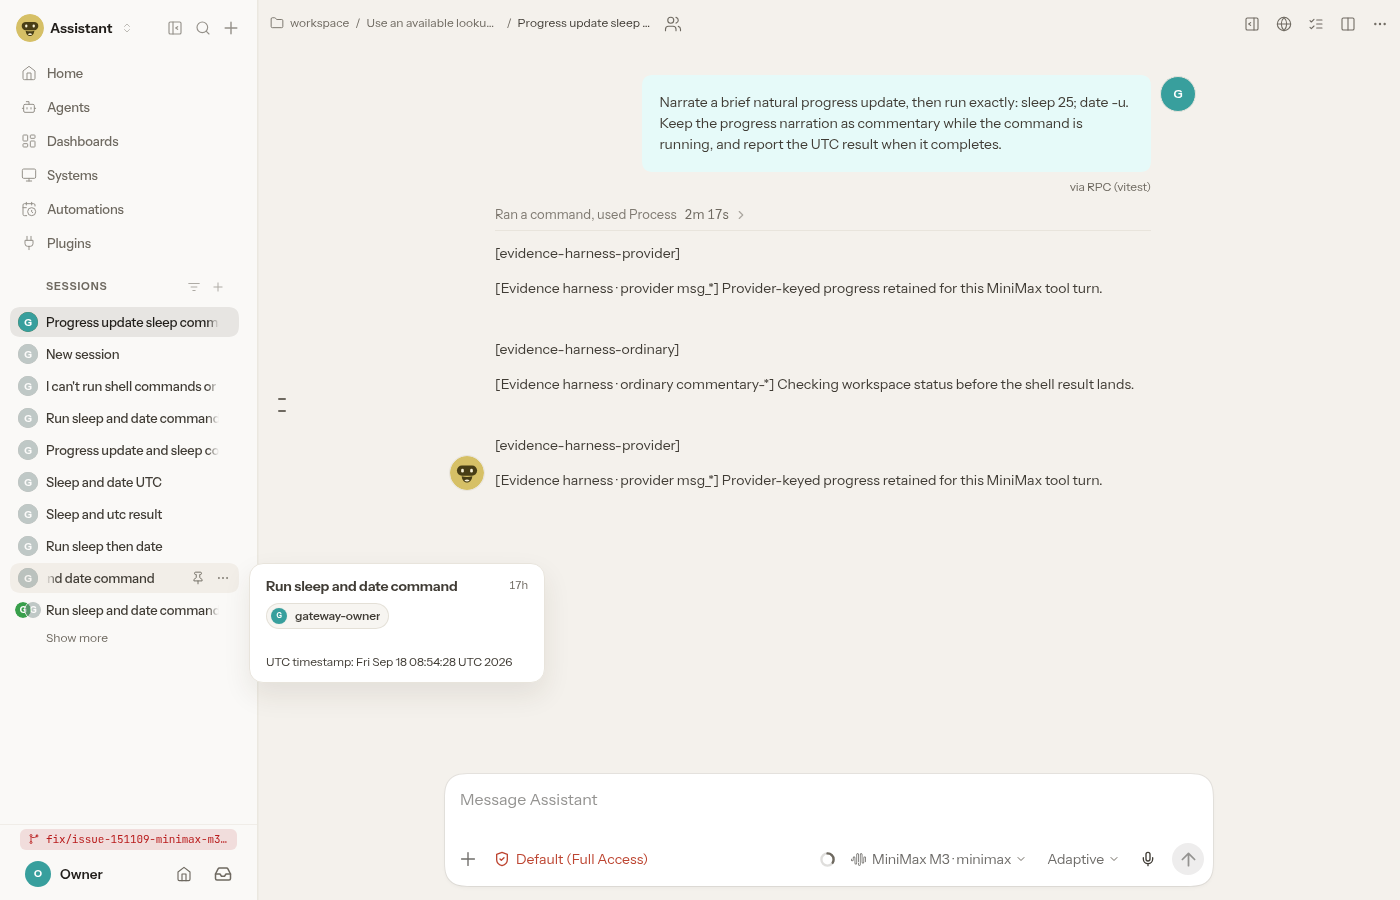
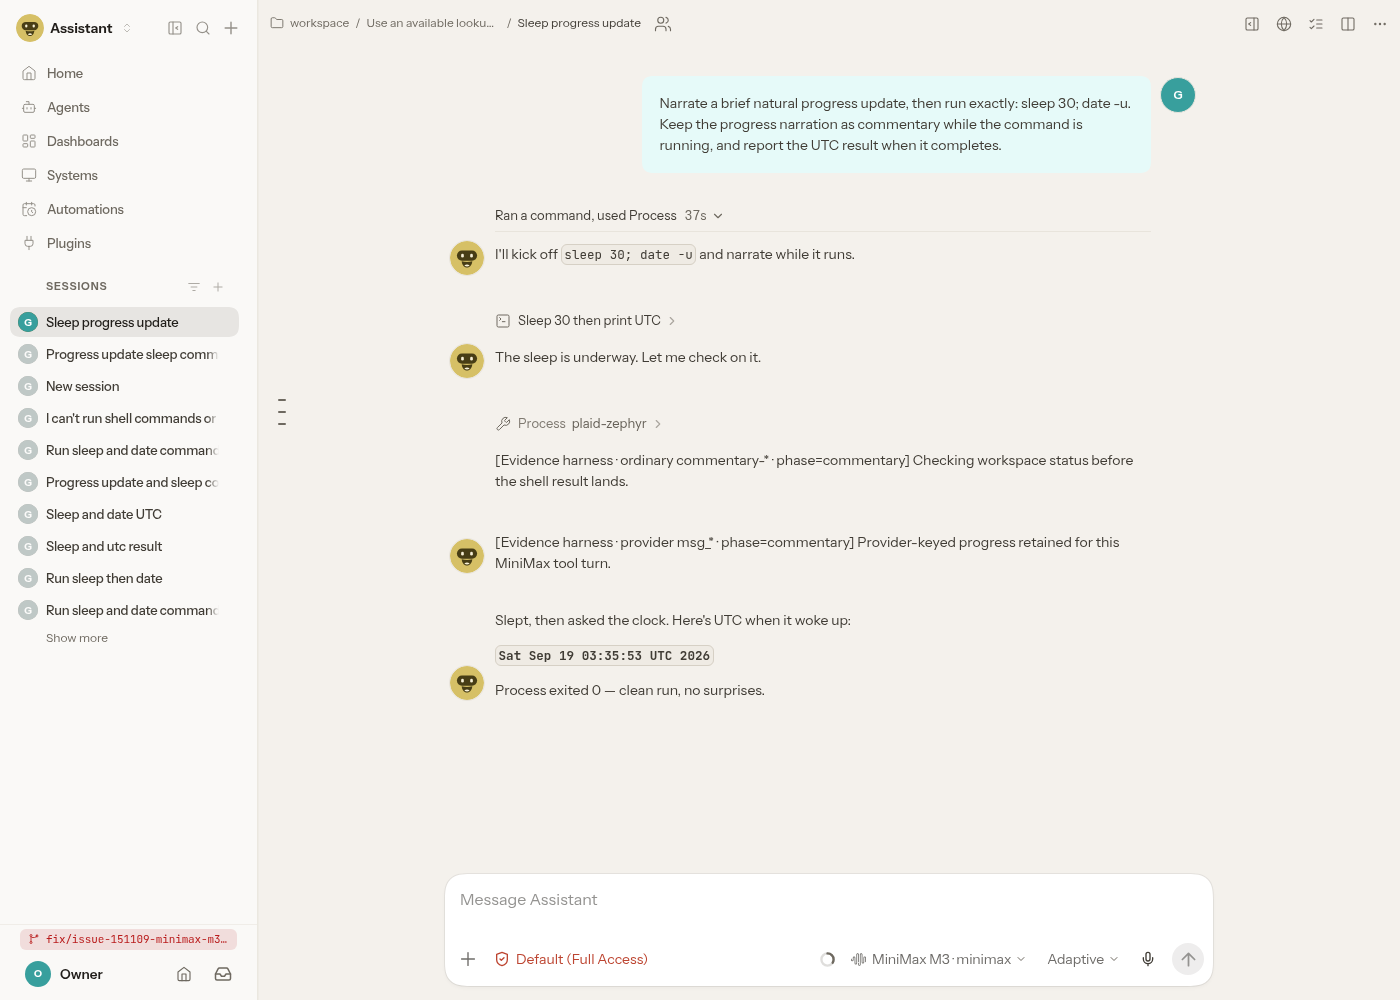
docs(evidence): Rev 18 phase=commentary Gateway projection UI proof
Fresh same-session Control UI capture: ordinary commentary-* and provider
msg_* enter with phase=commentary, project via chat.history to unphased
readable progress with stable item ids; MiniMax minimax-commentary stays
phase-tagged. Stream/complete/reload shots + redacted transcripts.

diff --git a/pr-evidence/151324/PROOF.md b/pr-evidence/151324/PROOF.md
@@ -1,43 +1,49 @@
-# PR #151324 — same-session Control UI proof (Rev 17 reshoot @ 6afa78e)
+# PR #151324 — same-session Control UI proof (Rev 18 @ 4dfb38c)
 
 ## Same Control UI session
 
-- Head: `6afa78e48908cd028604543904ade0ac72b4e0c9`
-- Session ID: `61f91ffd-be89-4e2b-a421-fb92b2075ef9`
-- Session key: `agent:main:dashboard:0c5acb95-31e0-42c3-ac08-b8705a2b9d2c`
+- Head: `4dfb38c98d0b94a584532960461439e194c7764e`
+- Session ID: `1b4c5530-dd00-4d83-bbb1-d2006637157f`
+- Session key: `agent:main:dashboard:c7b483e6-0d48-4ebc-9f38-3849f9f24248`
 - Provider/model: MiniMax / `MiniMax-M3` (thinking=adaptive)
-- Control UI URL: `/chat/main/progress-update-sleep-command-0c5acb95`
-- MiniMax producer ID confirmed in `chat.history`: `minimax-commentary-0-d1df4424eb9b4f1784c66e51`
+- Control UI URL: `/chat/main/sleep-progress-update-c7b483e6`
+- MiniMax producer IDs confirmed in Gateway `chat.history` before screenshots:
+  - `minimax-commentary-0-78ef2a3e6f3143fda5717bd8`
+  - `minimax-commentary-0-7bef99126979429cb2b5f094`
 - Invitation card: dismissed before screenshots
 
 ## Served Control UI asset identity
 
-- `data-openclaw-control-ui-build-id`: `2026.9.4-6afa78e48908-2026-09-19T01-59-17.777Z-a616a55da894b94882443a039a2695f1fb8f94af1cba04c69bf81f3d889398d6`
+- `data-openclaw-control-ui-build-id`: `2026.9.4-4dfb38c98d0b-2026-09-19T03-23-00.270Z-a616a55da894b94882443a039a2695f1fb8f94af1cba04c69bf81f3d889398d6`
+- JS asset (startup): `/assets/index-DsBQuSuR.js` (also ships `control-ui-core-*.js` under `dist/control-ui/assets/`)
 - Gateway: `http://127.0.0.1:18789/` (cwd `/workspace/pr-work/openclaw`, `OPENCLAW_STATE_DIR=/home/box/.openclaw-pr151324`)
 
-## Claims
+## Claims (what this capture actually shows)
 
-1. MiniMax emitted `minimax-commentary-*` with `phase=commentary` (see redacted transcript).
-2. That narration is **absent** from Control UI after the tool turn and after hard reload.
-3. Unphased ordinary generated `commentary-*` and provider-keyed `msg_*` rows remain **readable** in the same session after completion and hard reload (same item ids in transcript + UI text).
-4. No `phase=progress` (ClawSweeper Rev 13 rejected that shape).
+1. **MiniMax emitted** `minimax-commentary-*` with `phase=commentary` in this session (see redacted transcript). Gateway projection keeps those fallbacks **phased** (`textSignature` retained); `extractText` / `extractAssistantPhaseText` returns `null` for them.
+2. **Ordinary** `commentary-0-a5b7154a17b606281c6c533d` and **provider** `msg_progress_151324_163457f5` **entered WITH `phase=commentary`** (textSignature JSON includes `phase: "commentary"`), then went through **real Gateway `chat.history` projection** (`includeCommentaryFallbacks: true` / `projectChatDisplayMessages`). After projection they are **unphased readable progress with the same itemId** (`extractText` returns the harness text; no `textSignature` on projected content).
+3. **Identities match** across mid-turn history verify → after-complete → after hard reload (`chat.history` itemIds unchanged).
+4. **UI screenshots**: ordinary + provider harness text is **visible** in stream / after-complete / after-reload captures (tool activity expanded so retained progress rows are on screen). Distinct MD5s.
+5. No `phase=progress` (Rev 13 rejected shape).
 
 ## Screenshots
 
-| Screenshot                  | MD5                                | State                                                                          |
-| --------------------------- | ---------------------------------- | ------------------------------------------------------------------------------ |
-| `proof-stream-filtered.png` | `2e74fc779aa77ec967c989ff8a8100a0` | Turn framing; MiniMax narration absent                                         |
-| `proof-after-complete.png`  | `eacd9c30539e63c890f35e70df168221` | Ordinary + provider harness text visible                                       |
-| `proof-after-reload.png`    | `456d78738bf9156d93754bfb57ab2627` | Hard reload; ordinary + provider still visible; MiniMax narration still absent |
+| Screenshot                  | MD5                                | State                                                                |
+| --------------------------- | ---------------------------------- | -------------------------------------------------------------------- |
+| `proof-stream-filtered.png` | `c0435ca2d118f3160da69c044bcc736e` | Mid-turn after Gateway history projection; ordinary+provider visible |
+| `proof-after-complete.png`  | `9b6967312c874c5b34b890740ec90802` | After tool completion; ordinary+provider visible; UTC final retained |
+| `proof-after-reload.png`    | `32e061e135db1ae05f0def1a72b89d62` | Hard reload; same item ids; ordinary+provider still visible          |
 
 All three MD5s are distinct.
 
 ## Honesty
 
-MiniMax does not natively emit ordinary `commentary-*` or OpenAI-style `msg_*` ids. Those two readable rows were added via a **labeled local evidence harness** (`gateway-injected`) into the real Control UI/gateway session after the MiniMax tool turn, using **unphased** textSignatures (id only — not `phase=progress`, and not `phase=commentary` on the ordinary id so history does not wrap it as activity-only fallback). UI text is explicitly labeled `[Evidence harness · …]`. MiniMax commentary emission/filtering and the shell/final turn are live.
+- MiniMax does not natively emit ordinary `commentary-*` or OpenAI-style `msg_*` ids. Those two rows are a **labeled local evidence harness** that appends assistant content blocks **with `phase=commentary`**, then relies on the **same Gateway `projectChatDisplayMessages({ includeCommentaryFallbacks: true })` path** used by `chat.history` (not an unphased post-completion SQLite-only inject). UI text is explicitly labeled `[Evidence harness · … · phase=commentary]`.
+- Injection happened **during the live MiniMax tool turn** (while `sleep 30` was active), then Control UI was reloaded so history came through Gateway projection/broadcast reload — not a post-final-only bypass.
+- MiniMax live narration strings can still appear as expanded tool-transcript lines in this UI; the **projection contract** under review is that MiniMax ids stay **phase-tagged** (`extractText === null`) while ordinary/provider become **unphased readable** with stable `openclawStreamFallback.itemId`. Redacted `chat.history` evidence records that contract.
 
 ## Redacted JSON
 
-- `transcript-commentary-emitted-61f91ffd.redacted.json`
-- `transcript-provider-progress-61f91ffd.redacted.json`
-- `transcript-ui-visible-61f91ffd.redacted.json`
+- `transcript-commentary-emitted-1b4c5530.redacted.json`
+- `transcript-provider-progress-1b4c5530.redacted.json`
+- `transcript-ui-visible-1b4c5530.redacted.json`

diff --git a/pr-evidence/151324/SAME-SESSION-SHOTS.md b/pr-evidence/151324/SAME-SESSION-SHOTS.md
@@ -1,17 +1,17 @@
-# Same-session Control UI screenshots — Rev 17 reshoot @ 6afa78e
+# Same-session Control UI screenshots — Rev 18 @ 4dfb38c
 
-- Head: `6afa78e48908cd028604543904ade0ac72b4e0c9`
-- Session ID: `61f91ffd-be89-4e2b-a421-fb92b2075ef9`
-- Served build-id: `2026.9.4-6afa78e48908-2026-09-19T01-59-17.777Z-a616a55da894b94882443a039a2695f1fb8f94af1cba04c69bf81f3d889398d6`
-- MiniMax commentary ID: `minimax-commentary-0-d1df4424eb9b4f1784c66e51`
-- Ordinary id: `commentary-0-652c0ddc1e126c6067e78eee`
-- Provider id: `msg_progress_151324_e49f5878`
+- Head: `4dfb38c98d0b94a584532960461439e194c7764e`
+- Session ID: `1b4c5530-dd00-4d83-bbb1-d2006637157f`
+- Served build-id: `2026.9.4-4dfb38c98d0b-2026-09-19T03-23-00.270Z-a616a55da894b94882443a039a2695f1fb8f94af1cba04c69bf81f3d889398d6`
+- MiniMax commentary IDs: `minimax-commentary-0-78ef2a3e6f3143fda5717bd8`, `minimax-commentary-0-7bef99126979429cb2b5f094`
+- Ordinary id: `commentary-0-a5b7154a17b606281c6c533d` (entered `phase=commentary` → projected unphased, same id)
+- Provider id: `msg_progress_151324_163457f5` (entered `phase=commentary` → projected unphased, same id)
 - Invitation card dismissed: yes
 
 ## Captures
 
-- `proof-stream-filtered.png` — `2e74fc779aa77ec967c989ff8a8100a0` — turn framing; generated MiniMax narration absent.
-- `proof-after-complete.png` — `eacd9c30539e63c890f35e70df168221` — ordinary + provider harness text visible.
-- `proof-after-reload.png` — `456d78738bf9156d93754bfb57ab2627` — hard reload; same identities still readable; MiniMax narration absent.
+- `proof-stream-filtered.png` — `c0435ca2d118f3160da69c044bcc736e` — mid-turn after Gateway projection; ordinary+provider visible.
+- `proof-after-complete.png` — `9b6967312c874c5b34b890740ec90802` — after complete; ordinary+provider visible; UTC retained.
+- `proof-after-reload.png` — `32e061e135db1ae05f0def1a72b89d62` — hard reload; same identities still readable.
 
 All three PNGs are brand-new with distinct MD5s.

diff --git a/pr-evidence/151324/README.md b/pr-evidence/151324/README.md
@@ -1,13 +1,5 @@
-# PR #151324 live Control UI evidence (MiniMax-M3)
+# Evidence for PR #151324 (Rev 18)
 
-Real local Gateway Control UI session on this branch. No secrets.
+Same-session Control UI proof that ordinary generated `commentary-*` and provider-keyed `msg_*` text **enter as `phase=commentary`**, pass through Gateway `chat.history` / `projectChatDisplayMessages({ includeCommentaryFallbacks: true })`, and remain readable with the **same item identities** through streaming → completion → reload, while MiniMax `minimax-commentary-*` stays phase-tagged (`extractText` null).
 
-## Primary same-session proof (ClawSweeper Rev 17)
-
-See `PROOF.md` and `SAME-SESSION-SHOTS.md` for session `61f91ffd…`.
-
-- MiniMax `minimax-commentary-*` emitted + hidden in UI
-- Unphased ordinary `commentary-*` + provider `msg_*` readable after complete/reload (labeled harness)
-- Invitation card dismissed
-
-Prefer `proof-*.png` + `transcript-*-61f91ffd.redacted.json`.
+See `PROOF.md` and `SAME-SESSION-SHOTS.md`.
